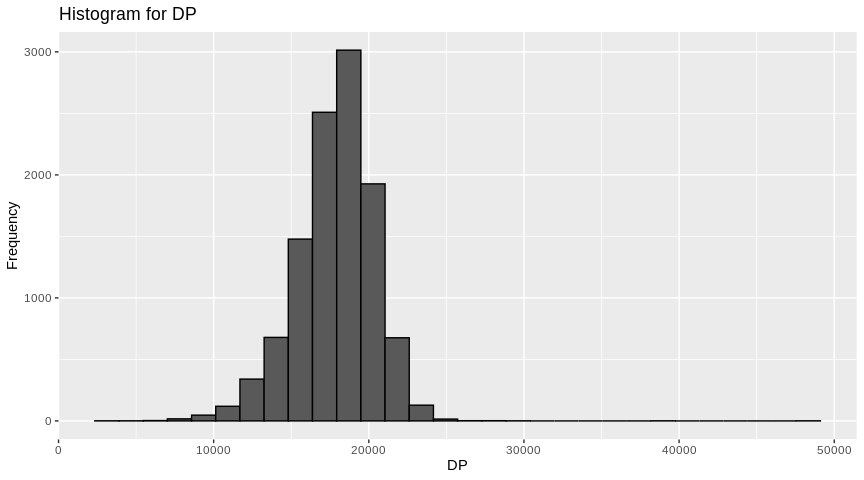
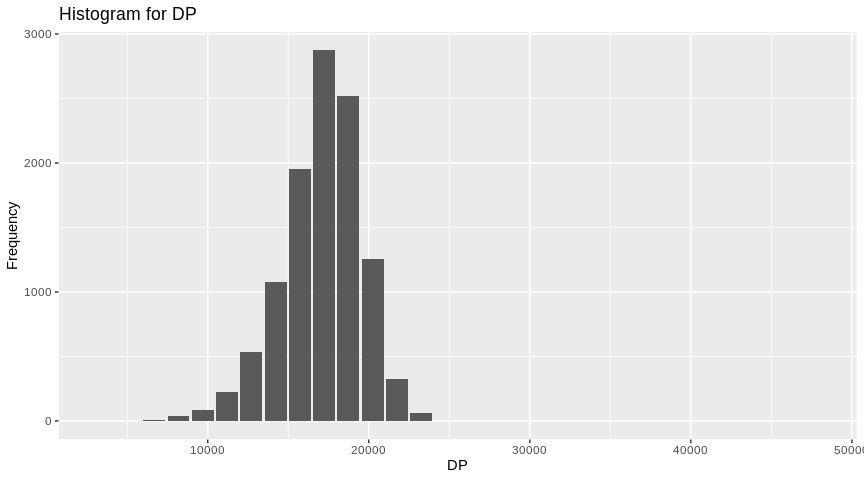
update README
* change repo name to r-spark
* plot using dbplot

diff --git a/README.md b/README.md
@@ -24,7 +24,7 @@ and restart your R session:
 
 ``` r
 install.packages("devtools")
-devtools::install_github("samuelmacedo83/sparkhail")
+devtools::install_github("r-spark/sparkhail")
 ```
 
 You can install Hail manually or using `hail_install()`.
@@ -33,6 +33,8 @@ You can install Hail manually or using `hail_install()`.
 library(sparkhail)
 hail_install()
 ```
+
+    ## Hail is already installed.
 
 ## Read a matrix table
 
@@ -85,6 +87,13 @@ df %>%
   dplyr::select(locus, alleles) %>% 
   head(5)
 ```
+
+    ## Warning: `overscope_eval_next()` is deprecated as of rlang 0.2.0.
+    ## Please use `eval_tidy()` with a data mask instead.
+    ## This warning is displayed once per session.
+
+    ## Warning: `overscope_clean()` is deprecated as of rlang 0.2.0.
+    ## This warning is displayed once per session.
 
     ## # Source: spark<?> [?? x 2]
     ##   locus     alleles   
@@ -186,6 +195,9 @@ merge these data we can use joins.
 ``` r
 annotations_sample <- inner_join(s, annotations, by = c("s" = "Sample"))
 ```
+
+    ## Warning: `chr_along()` is deprecated as of rlang 0.2.0.
+    ## This warning is displayed once per session.
 
 ## Query functions
 
@@ -311,19 +323,18 @@ SNPs. Why?
 The last example, what about genotypes? Hail can query the collection of
 all genotypes in the dataset, and this is getting large even for our
 tiny dataset. Our 284 samples and 10,000 variants produce 10 million
-unique genotypes. Let’s plot this using the `ggplot2` package.
+unique genotypes. Let’s plot this using the `ggplot2` and `dbplot`
+package.
 
 ``` r
+library(dbplot)
 library(ggplot2)
 library(sparklyr.nested) # to access DP nested in info column
 
 df %>% 
   sdf_select(DP = info.DP) %>% 
-  collect() %>% 
-  ggplot() +
-  aes(x = DP) +
-  geom_histogram(col=I("black")) + 
-  labs(title="Histogram for DP", y="Frequency")
+  dbplot_histogram(DP) +
+  labs(title = "Histogram for DP", y = "Frequency")
 ```
 
 ![](README_files/figure-gfm/dp_plot-1.png)<!-- -->
@@ -335,5 +346,3 @@ Then disconenct from Spark and Hail,
 ``` r
 spark_disconnect(sc)
 ```
-
-    ## NULL
